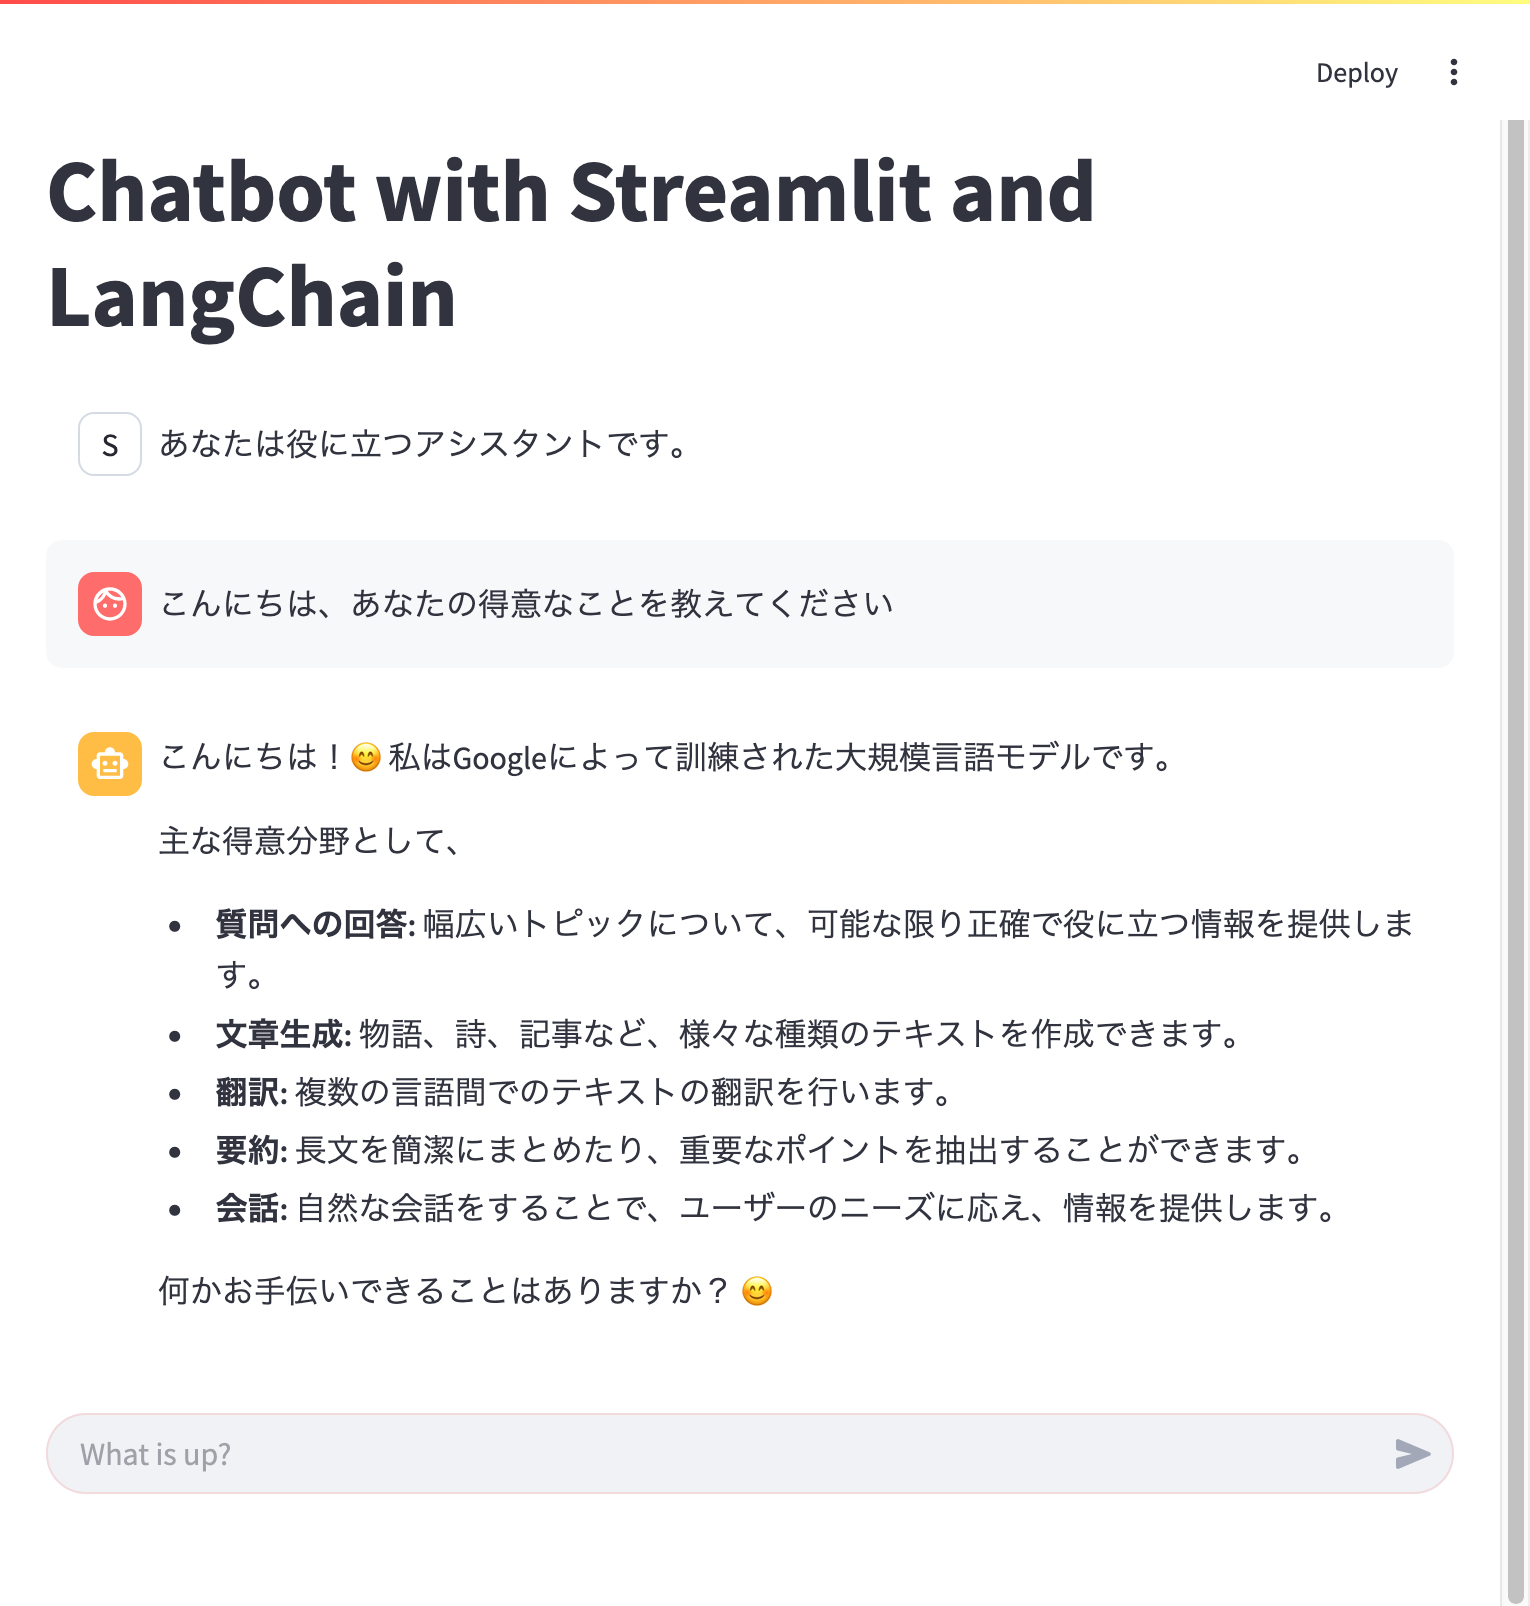
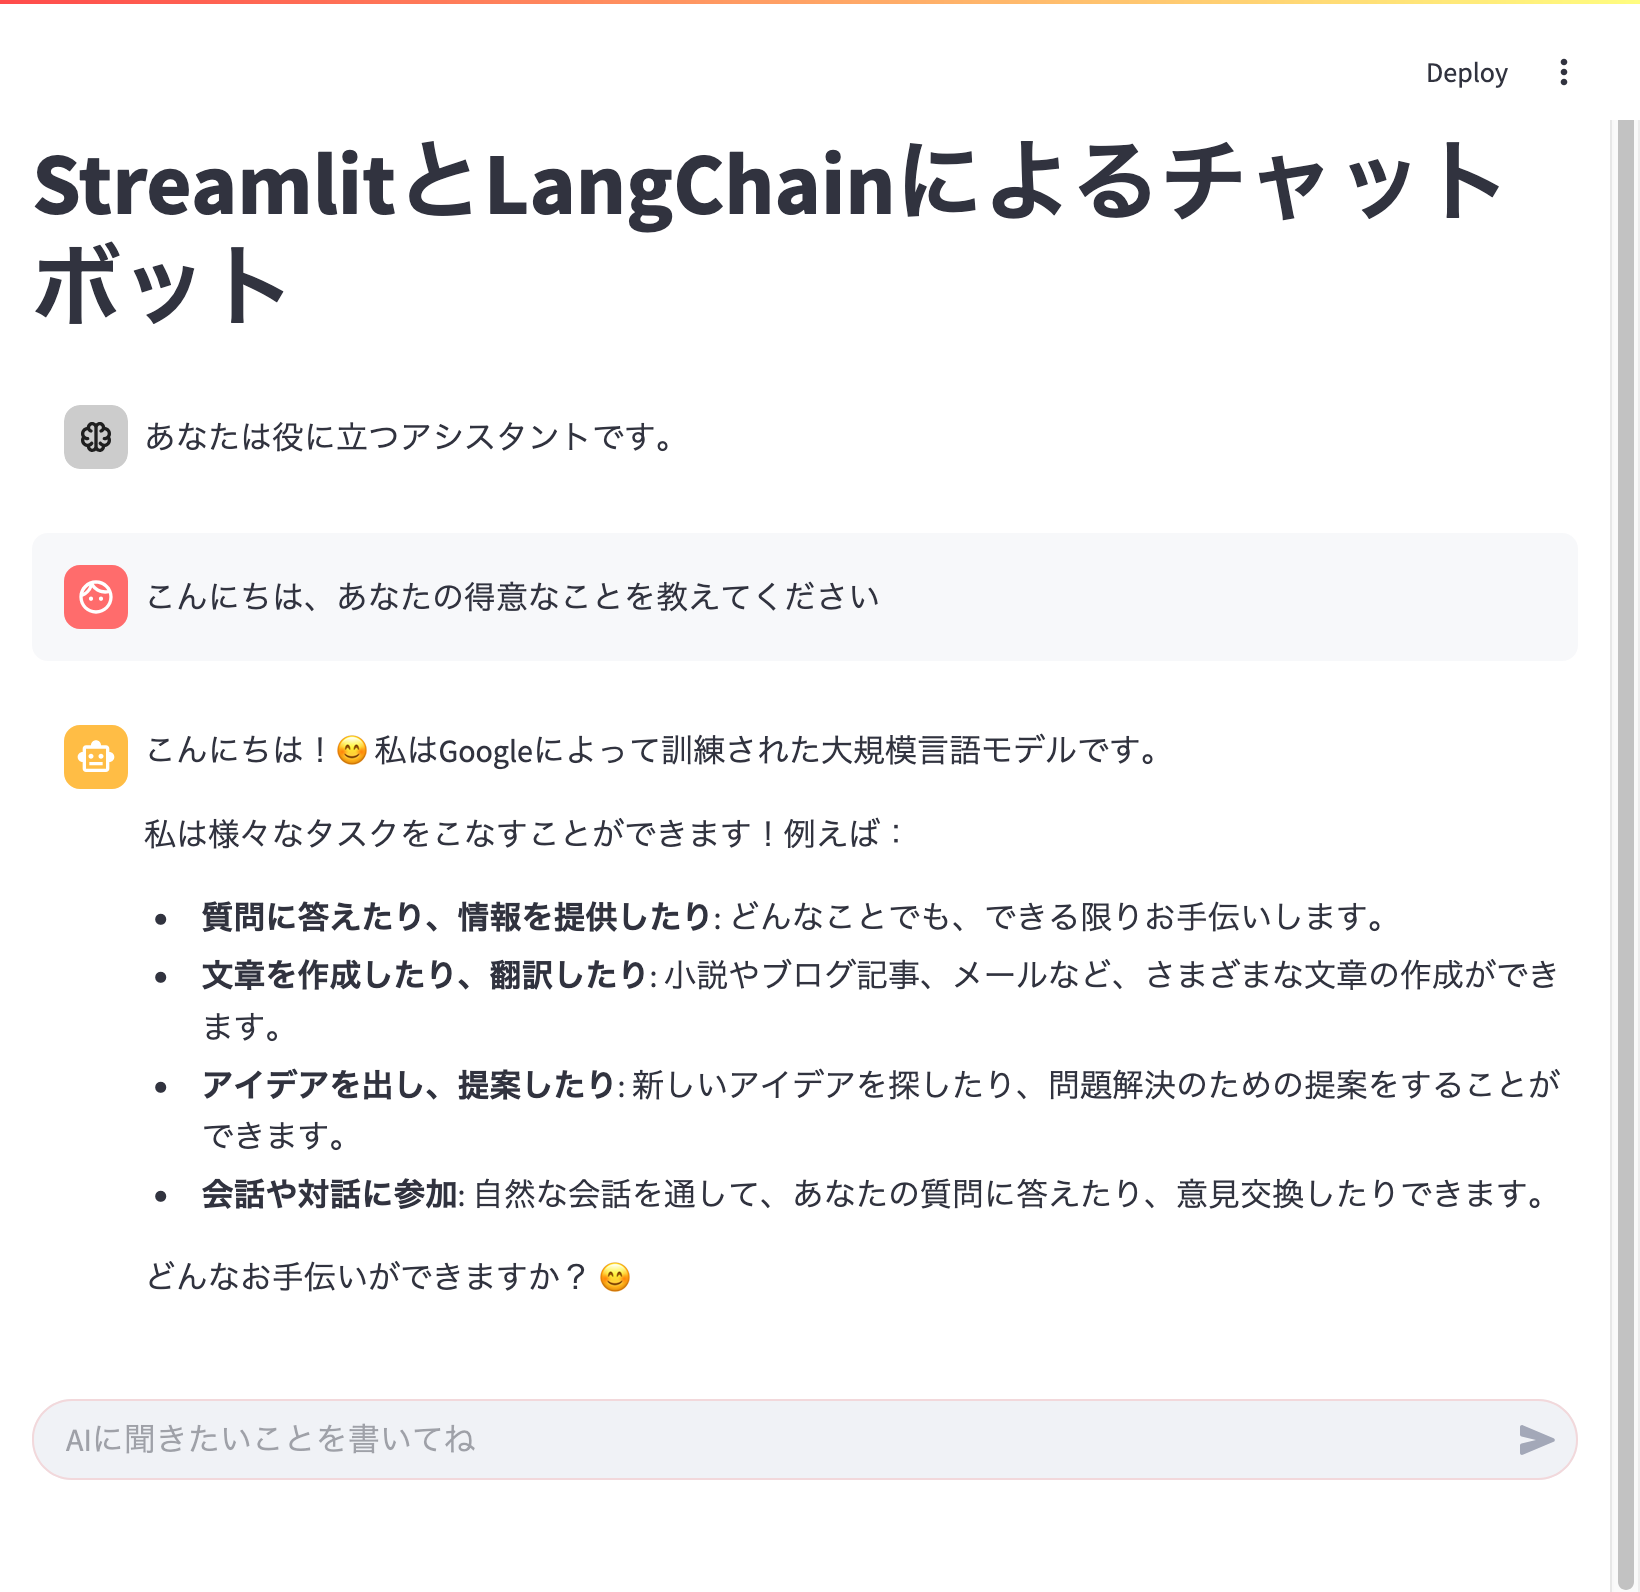
画像を更新

diff --git a/app.py b/app.py
@@ -8,7 +8,7 @@ from langchain.schema import SystemMessage, HumanMessage, AIMessage
 # ページの基本設定（タイトル、アイコン、レイアウトなど）
 st.set_page_config(
     page_title="StreamlitとLangChainによるチャットボット",
-    page_icon="🤖",
+    page_icon="🤖",
     layout="wide"
 )
 st.title("StreamlitとLangChainによるチャットボット")
@@ -36,9 +36,7 @@ SYSTEM_ICON = '''
   <!-- 背景の角丸正方形（薄い灰色） -->
   <rect x="0" y="0" width="32" height="32" rx="8" fill="#cccccc" />
   <!-- 中央に配置された20x20のアイコン -->
-  <svg x="6" y="6" width="20" height="20" viewBox="0 -960 960 960" xmlns="http://www.w3.org/2000/svg" fill="#1f1f1f">
-    <path d="M390-120q-51 0-88-35.5T260-241q-60-8-100-53t-40-106q0-21 5.5-41.5T142-480q-11-18-16.5-38t-5.5-42q0-61 40-105.5t99-52.5q3-51 41-86.5t90-35.5q26 0 48.5 10t41.5 27q18-17 41-27t49-10q52 0 89.5 35t40.5 86q59 8 99.5 53T840-560q0 22-5.5 42T818-480q11 18 16.5 38.5T840-400q0 62-40.5 106.5T699-241q-5 50-41.5 85.5T570-120q-25 0-48.5-9.5T480-156q-19 17-42 26.5t-48 9.5Zm130-590v460q0 21 14.5 35.5T570-200q20 0 34.5-16t15.5-36q-21-8-38.5-21.5T550-306q-10-14-7.5-30t16.5-26q14-10 30-7.5t26 16.5q11 16 28 24.5t37 8.5q33 0 56.5-23.5T760-400q0-5-.5-10t-2.5-10q-17 10-36.5 15t-40.5 5q-17 0-28.5-11.5T640-440q0-17 11.5-28.5T680-480q33 0 56.5-23.5T760-560q0-33-23.5-56T680-640q-11 18-28.5 31.5T613-587q-16 6-31-1t-20-23q-5-16 1.5-31t22.5-20q15-5 24.5-18t9.5-30q0-21-14.5-35.5T570-760q-21 0-35.5 14.5T520-710Zm-80 460v-460q0-21-14.5-35.5T390-760q-21 0-35.5 14.5T340-710q0 16 9 29.5t24 18.5q16 5 23 20t2 31q-6 16-21 23t-31 1q-21-8-38.5-21.5T279-640q-32 1-55.5 24.5T200-560q0 33 23.5 56.5T280-480q17 0 28.5 11.5T320-440q0 17-11.5 28.5T280-400q-21 0-40.5-5T203-420q-2 5-2.5 10t-.5 10q0 33 23.5 56.5T280-320q20 0 37-8.5t28-24.5q10-14 26-16.5t30 7.5q14 10 16.5 26t-7.5 30q-14 19-32 33t-39 22q1 20 16 35.5t35 15.5q21 0 35.5-14.5T440-250Zm40-230Z"/>
-  </svg>
+  <svg x="6" y="6" width="20" height="20" viewBox="0 -960 960 960" xmlns="http://www.w3.org/2000/svg" fill="#ffffff"><path d="M395-144q-47 0-80-31t-38-77q-57-6-95-48t-38-100.02q0-19.98 4.5-41.48Q153-463 164-480q-10-17.07-15-36.03-5-18.97-5-39.31 0-56.39 37-97.52Q218-694 275-702q2-48 37.04-81t82.99-33q23.97 0 45.97 9t39.46 26q16.54-17 37.87-26t45.44-9Q612-816 647-783q35 33 37 81 57 7 94.5 48.72T816-555q0 20.94-5.5 39.97Q805-496 795-479q12 20 16.5 40t4.5 39.48q0 57.52-38.5 100.02Q739-257 682-252q-5 46-38 77t-80.27 31q-23.17 0-44.95-8.5T480-178q-17 16-39.03 25T395-144Zm121-551.3v431.6q0 19.7 13.92 34.2Q543.84-215 564-215q20 0 33-14t14-34q-19-8-35.07-20.33Q559.86-295.65 547-313q-9-12.48-6.5-26.74Q543-354 555.5-363q12.5-9 26.98-6.76Q596.95-367.53 606-355q10.55 15.03 26.86 23.02 16.3 7.98 35.49 7.98Q700-324 722-346t22-54q0-7-1-13t-3-12q-15.9 9-34.13 13.5Q687.64-407 668-407q-15.3 0-25.65-10.29Q632-427.58 632-442.79t10.35-25.71Q652.7-479 668-479q32 0 54-22t22-53.53q0-31.52-22-53.5Q700-630 666.25-631 655-614 639.5-601T604-581q-14 5-27.5-1.26-13.5-6.27-18.5-20.58-5-14.32 1.5-27.74Q566-644 580.45-649 594-654 603-666.39t9-28.59q0-20.02-13.92-34.52Q584.16-744 564-744q-20.16 0-34.08 14.5Q516-715 516-695.3ZM444-264v-431.31q0-19.69-14.5-34.19Q415-744 394.89-744q-20.12 0-34 14.28Q347-715.44 347-694.76q0 15.76 9 28.26 9 12.5 22.55 17.5 14.45 5 20.95 18.37Q406-617.26 401-603q-5 14-18.5 20.5T355-581q-20-7-35.5-20t-26.76-30Q260-630 238-608t-22 53.02Q216-523 238-501q22 22 54 22 15.3 0 25.65 10.29Q328-458.42 328-443.21t-10.35 25.71Q307.3-407 292-407q-19.6 0-37.8-5-18.2-5-34.2-14-2 6-3 12.67-1 6.66-1 13.33 0 32 22 54t53.65 22q19.19 0 35.49-7.98Q343.45-339.97 354-355q9.29-13.26 24.14-15.63Q393-373 405-364t14.5 24q2.5 15-6.25 27.3Q401-296 384.5-283T348-262q1 20 14 33t32.71 13q20.7 0 35-13.92Q444-243.84 444-264Zm36-215Z"/></svg>
 </svg>
 '''
 
